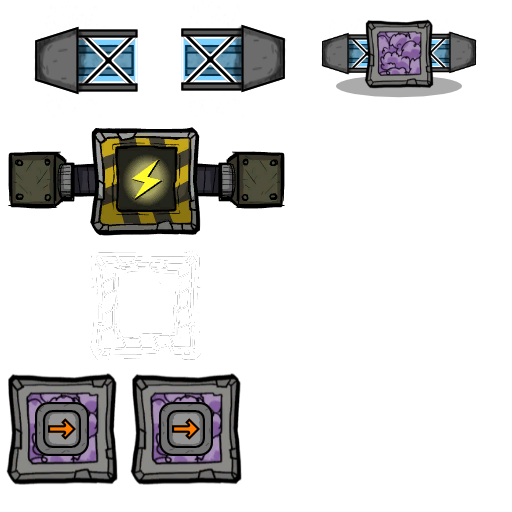
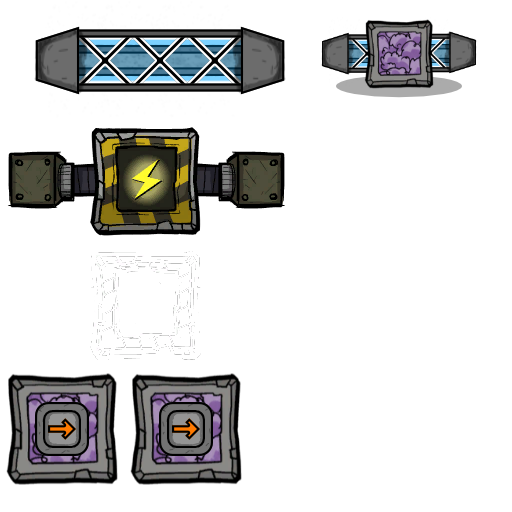
normal hp rail

Changed region(s): [[0.125, 0.0312, 0.5625, 0.1875], [0.0625, 0.0625, 0.0938, 0.1562]]

diff --git a/RonivansLegacy_ChemicalProcessing/STRINGS.cs b/RonivansLegacy_ChemicalProcessing/STRINGS.cs
@@ -1343,20 +1343,20 @@ namespace RonivansLegacy_ChemicalProcessing
 
 				public class HPA_SOLIDRAIL
 				{
-					public static LocString NAME = FormatAsLink("Heavy Duty Rail", nameof(HPA_SOLIDRAIL));
+					public static LocString NAME = FormatAsLink("Heavy-Duty Rail", nameof(HPA_SOLIDRAIL));
 					public static LocString DESC = "Rails move materials where they'll be needed most, saving Duplicants the walk.";
 					public static LocString EFFECT = string.Concat(
 						[
 							"Transports large quantities of ",FormatAsLink("Solid Materials", "ELEMENTS_SOLID")," on a track between ",
-							FormatAsLink("Heavy Duty Loaders", "HPA_INBOX"),
+							FormatAsLink("Heavy-Duty Loaders", "HPA_INBOX"),
 							" and ",
-							FormatAsLink("Heavy Duty Receptacles", "HPA_OUTBOX"),
+							FormatAsLink("Heavy-Duty Receptacles", "HPA_OUTBOX"),
 							".\n\nCan not be run through wall and floor tiles."
 						]);
 				}
 				public class HPA_SOLIDRAIL_INSULATED
 				{
-					public static LocString NAME = FormatAsLink("Insulated Heavy Duty Rail", nameof(HPA_SOLIDRAIL_INSULATED));
+					public static LocString NAME = FormatAsLink("Insulated Heavy-Duty Rail", nameof(HPA_SOLIDRAIL_INSULATED));
 					public static LocString DESC = "Rails move materials where they'll be needed most, saving Duplicants the walk.";
 					public static LocString EFFECT = string.Concat(
 						[
@@ -1366,30 +1366,36 @@ namespace RonivansLegacy_ChemicalProcessing
 				}
 				public class HPA_SOLIDRAILBRIDGETILE
 				{
-					public static LocString NAME = FormatAsLink("Heavy Duty Joint Plate", nameof(HPA_SOLIDRAILBRIDGETILE));
-					public static LocString DESC = "Joint plates can run Heavy Duty rails through walls without leaking gas or liquid.";
+					public static LocString NAME = FormatAsLink("Heavy-Duty Joint Plate", nameof(HPA_SOLIDRAILBRIDGETILE));
+					public static LocString DESC = "Joint plates can run Heavy-Duty rails through walls without leaking gas or liquid.";
 					public static LocString EFFECT = "Allows " + HPA_SOLIDRAIL.NAME+" and "+ HPA_SOLIDRAIL_INSULATED.NAME + " to be run through wall and floor tile.\n\nFunctions as regular insulated tile.";
+				}
+				public class HPA_SOLIDRAILBRIDGE
+				{
+					public static LocString NAME = FormatAsLink("Heavy-Duty Bridge", nameof(HPA_SOLIDRAILBRIDGE));
+					public static LocString DESC = "Separating rail systems helps ensure materials go to the intended destinations.";
+					public static LocString EFFECT = "Allows " + HPA_SOLIDRAIL.NAME + " and " + HPA_SOLIDRAIL_INSULATED.NAME + " to run one section over another without joining them.\n\nCanot be run through wall and floor tile.";
 				}
 				public class HPA_INBOX
 				{
-					public static LocString NAME = FormatAsLink("Heavy Duty Loader", nameof(HPA_INBOX));
+					public static LocString NAME = FormatAsLink("Heavy-Duty Loader", nameof(HPA_INBOX));
 					public static LocString DESC = "";
 					public static LocString EFFECT = "";
 				}
 				public class HPA_OUTBOX
 				{
-					public static LocString NAME = FormatAsLink("Heavy Duty Receptacle", nameof(HPA_OUTBOX));
+					public static LocString NAME = FormatAsLink("Heavy-Duty Receptacle", nameof(HPA_OUTBOX));
 					public static LocString DESC = "";
 					public static LocString EFFECT = "";
 				}
 				public class HPA_SOLIDRAILVALVE
 				{
-					public static LocString NAME = FormatAsLink("Heavy Duty Reduction Valve", nameof(HPA_SOLIDRAILVALVE));
-					public static LocString DESC = "A mechanical valve capable of reducing the flow of mass from a heavy duty rail to to a conveyor rail, to avoid dropping items.";
+					public static LocString NAME = FormatAsLink("Heavy-Duty Reduction Valve", nameof(HPA_SOLIDRAILVALVE));
+					public static LocString DESC = "A mechanical valve capable of reducing the flow of mass from a Heavy-Duty rail to to a conveyor rail, to avoid dropping items.";
 					public static LocString EFFECT = "Allows " +
 					FormatAsLink("Solid Materials", "ELEMENTS_SOLID") +
 					" to be transfered from " +
-					FormatAsLink("Heavy Duty Rails", "HPA_SOLIDRAIL") +
+					FormatAsLink("Heavy-Duty Rails", "HPA_SOLIDRAIL") +
 					" to normal" +
 					FormatAsLink("Conveyor Rails", "SOLIDCONDUIT") +
 					".";
@@ -1543,13 +1549,13 @@ namespace RonivansLegacy_ChemicalProcessing
 				}
 				public class HPA_NEEDSOLIDIN
 				{
-					public static LocString NAME ="No Heavy Duty Solid Intake";
-					public static LocString TOOLTIP =("This building's " + PRE_KEYWORD + "Heavy Duty Solid Intake" + PST_KEYWORD + " does not have a " + (string)BUILDINGS.PREFABS.HPA_SOLIDRAIL.NAME + " connected");
+					public static LocString NAME ="No Heavy-Duty Solid Intake";
+					public static LocString TOOLTIP =("This building's " + PRE_KEYWORD + "Heavy-Duty Solid Intake" + PST_KEYWORD + " does not have a " + (string)BUILDINGS.PREFABS.HPA_SOLIDRAIL.NAME + " connected");
 				}
 				public class HPA_NEEDLSOLIDOUT
 				{
-					public static LocString NAME ="No Heavy Duty Solid Output";
-					public static LocString TOOLTIP =("This building's " + PRE_KEYWORD + "Heavy Duty Solid Output" + PST_KEYWORD + " does not have a " + (string)BUILDINGS.PREFABS.HPA_SOLIDRAIL.NAME + " connected");
+					public static LocString NAME ="No Heavy-Duty Solid Output";
+					public static LocString TOOLTIP =("This building's " + PRE_KEYWORD + "Heavy-Duty Solid Output" + PST_KEYWORD + " does not have a " + (string)BUILDINGS.PREFABS.HPA_SOLIDRAIL.NAME + " connected");
 				}
 				public class LOGISTIC_NEEDSOLIDIN
 				{
@@ -1957,6 +1963,10 @@ namespace RonivansLegacy_ChemicalProcessing
 		}
 		public class UI
 		{
+			public class TOOLTIPS
+			{
+				public static LocString HELP_BUILDLOCATION_HPA_RAIL = "Obstructed by Heavy-Duty Rail";
+			}
 			public class KLEI_INVENTORY_SCREEN
 			{
 				public class SUBCATEGORIES
@@ -2206,13 +2216,13 @@ namespace RonivansLegacy_ChemicalProcessing
 			}
 			public class HP_SOLID_CAPACITY
 			{
-				public static LocString NAME = "Heavy Duty Rail Capacity";
-				public static LocString TOOLTIP = "Heavy Duty Rails serve as an late game upgrade to conveyor rails, having a much higher throughput at the cost of more complex build requirements.";
+				public static LocString NAME = "Heavy-Duty Rail Capacity";
+				public static LocString TOOLTIP = "Heavy-Duty Rails serve as an late game upgrade to conveyor rails, having a much higher throughput at the cost of more complex build requirements.";
 			}
 			public class HP_SOLID_ARMRANGE
 			{
-				public static LocString NAME = "Heavy Duty Auto-Sweeper Range";
-				public static LocString TOOLTIP = "The Heavy Duty Auto-Sweeper serves as a late game version of the autosweeper, having higher range and throughput at the cost of more complex build requirements";
+				public static LocString NAME = "Heavy-Duty Auto-Sweeper Range";
+				public static LocString TOOLTIP = "The Heavy-Duty Auto-Sweeper serves as a late game version of the autosweeper, having higher range and throughput at the cost of more complex build requirements";
 			}
 		}
 	}

diff --git a/RonivansLegacy_ChemicalProcessing/Patches/HPA/BuildingDef_Patches.cs b/RonivansLegacy_ChemicalProcessing/Patches/HPA/BuildingDef_Patches.cs
@@ -1,0 +1,94 @@
+using HarmonyLib;
+using System;
+using System.Collections.Generic;
+using System.Linq;
+using System.Text;
+using System.Threading.Tasks;
+using UnityEngine;
+using UtilLibs;
+using static Grid.Restriction;
+using static Operational;
+
+namespace RonivansLegacy_ChemicalProcessing.Patches.HPA
+{
+	class BuildingDef_Patches
+	{
+
+		[HarmonyPatch(typeof(BuildingDef), nameof(BuildingDef.IsValidTileLocation))]
+		public class BuildingDef_IsValidTileLocation_Patch
+		{
+			public static void Postfix(BuildingDef __instance, GameObject source_go, int cell, bool replacement_tile, ref string fail_reason, ref bool __result)
+			{
+				if (!__result)
+					return;
+				var solidBridge = Grid.Objects[cell, (int)ObjectLayer.SolidConduitConnection];
+				if (solidBridge != null && solidBridge != source_go && solidBridge.TryGetComponent<Building>(out var building) && building.Def.BuildLocationRule == BuildLocationRule.NotInTiles)
+				{
+					fail_reason = STRINGS.UI.TOOLTIPS.HELP_BUILDLOCATION_HPA_RAIL;
+					__result = false;
+				}
+				var solidRail = Grid.Objects[cell, (int)ObjectLayer.SolidConduit];
+				if (solidRail != null && solidRail != source_go && solidRail.TryGetComponent<Building>(out var building2) && building2.Def.BuildLocationRule == BuildLocationRule.NotInTiles)
+				{
+					fail_reason = STRINGS.UI.TOOLTIPS.HELP_BUILDLOCATION_HPA_RAIL;
+					__result = false;
+				}
+			}
+		}
+
+		[HarmonyPatch(typeof(BuildingDef), nameof(BuildingDef.IsValidBuildLocation),
+			[typeof(GameObject), typeof(int), typeof(Orientation), typeof(bool), typeof(string)], [ArgumentType.Normal, ArgumentType.Normal, ArgumentType.Normal, ArgumentType.Normal, ArgumentType.Out])]
+		public class BuildingDef_IsValidBuildLocation_Patch
+		{
+			public static void Postfix(BuildingDef __instance, int cell, GameObject source_go, Orientation orientation, ref string fail_reason, ref bool __result)
+			{
+				if (!__result)
+					return;
+				SgtLogger.l(__instance.ObjectLayer + " - " + __instance.BuildLocationRule + " - " + __instance.UtilityInputOffset + " - " + __instance.UtilityOutputOffset);
+				__result = IsValidHPABridgeLocation(__instance, cell, source_go, orientation, ref fail_reason);
+
+
+			}
+		}
+		static bool IsValidHPABridgeLocation(BuildingDef __instance, int cell, GameObject source_go, Orientation orientation, ref string fail_reason)
+		{
+			if (__instance.BuildLocationRule == BuildLocationRule.NotInTiles && __instance.ObjectLayer == ObjectLayer.SolidConduitConnection)
+			{
+				SgtLogger.l("Checking Bridge Validity for cell: " + cell + " with orientation: " + orientation);
+
+				CellOffset outputOffset = Rotatable.GetRotatedCellOffset(__instance.UtilityOutputOffset, orientation);
+				int utility_output_cell = Grid.OffsetCell(cell, outputOffset);
+
+				CellOffset inputOffset = Rotatable.GetRotatedCellOffset(__instance.UtilityInputOffset, orientation);
+				int utility_input_cell = Grid.OffsetCell(cell, inputOffset);
+
+				GameObject inputCellTile = Grid.Objects[utility_input_cell, (int)ObjectLayer.FoundationTile];
+				GameObject outputCellTile = Grid.Objects[utility_output_cell, (int)ObjectLayer.FoundationTile];
+
+				SgtLogger.l("Input Cell Tile: " + (inputCellTile != null) + " at cell: " + utility_input_cell);
+				SgtLogger.l("Output Cell Tile: " + (outputCellTile != null) + " at cell: " + utility_output_cell);
+
+				if (inputCellTile != null || Grid.HasDoor[utility_input_cell]
+					|| outputCellTile != null || Grid.HasDoor[utility_output_cell])
+				{
+					fail_reason = global::STRINGS.UI.TOOLTIPS.HELP_BUILDLOCATION_NOT_IN_TILES;
+					return false;
+				}
+			}
+			return true;
+		}
+
+		[HarmonyPatch(typeof(BuildingDef), nameof(BuildingDef.IsValidPlaceLocation),
+			[typeof(GameObject), typeof(int), typeof(Orientation), typeof(bool), typeof(string), typeof(bool)], [ArgumentType.Normal, ArgumentType.Normal, ArgumentType.Normal, ArgumentType.Normal, ArgumentType.Out, ArgumentType.Normal])]
+		public class BuildingDef_IsValidPlaceLocation_Patch
+		{
+			public static void Postfix(BuildingDef __instance, GameObject source_go, int cell, Orientation orientation, bool replace_tile, ref string fail_reason, bool restrictToActiveWorld, ref bool __result)
+			{
+				if (!__result)
+					return;
+				SgtLogger.l(__instance.ObjectLayer + " - " + __instance.BuildLocationRule + " - " + __instance.UtilityInputOffset + " - " + __instance.UtilityOutputOffset);
+				__result = IsValidHPABridgeLocation(__instance, cell, source_go, orientation, ref fail_reason);
+			}
+		}
+	}
+}

diff --git a/RonivansLegacy_ChemicalProcessing/Content/Defs/Buildings/HighPressureApplications/HighCapacityLogisticRails/HPABridgeConfig.cs b/RonivansLegacy_ChemicalProcessing/Content/Defs/Buildings/HighPressureApplications/HighCapacityLogisticRails/HPABridgeConfig.cs
@@ -10,9 +10,9 @@ using UtilLibs;
 
 namespace RonivansLegacy_ChemicalProcessing.Content.Defs.Buildings.HighPressureApplications.HighCapacityLogisticRails
 {
-    class HPABridgeTileConfig : IBuildingConfig
+    class HPABridgeConfig : IBuildingConfig
 	{
-		public static string ID = "HPA_SolidRailBridgeTile";
+		public static string ID = "HPA_SolidRailBridge";
 		public override void ConfigureBuildingTemplate(GameObject go, Tag prefab_tag)
 		{
 			BuildingConfigManager.Instance.IgnoreDefaultKComponent(typeof(RequiresFoundation), prefab_tag);
@@ -22,33 +22,24 @@ namespace RonivansLegacy_ChemicalProcessing.Content.Defs.Buildings.HighPressureA
 			cap.CachedConduitCapacity = HighPressureConduitRegistration.SolidCap_HP; 
 			
 			GeneratedBuildings.MakeBuildingAlwaysOperational(go);
-			SimCellOccupier simCellOccupier = go.AddOrGet<SimCellOccupier>();
-			simCellOccupier.doReplaceElement = true;
-			simCellOccupier.movementSpeedMultiplier = DUPLICANTSTATS.MOVEMENT_MODIFIERS.PENALTY_3;
-			simCellOccupier.notifyOnMelt = true;
-			go.AddOrGet<BuildingHP>().destroyOnDamaged = true;
-			go.AddOrGet<TileTemperature>();
 		}
 
 		public override BuildingDef CreateBuildingDef()
 		{
 			EffectorValues nONE = NOISE_POLLUTION.NONE;
 
-			string[] mats = [GameTags.BuildableRaw.ToString(),GameTags.Steel.ToString(), MATERIALS.TRANSPARENT];
-			float[] costs = [400, 100, 50];
+			string[] mats = [GameTags.Steel.ToString(), MATERIALS.TRANSPARENT];
+			float[] costs = [100, 50];
 
-			BuildingDef def1 = BuildingTemplates.CreateBuildingDef(ID, 1, 1, "hpa_rail_tile_bridge_kanim", 100, 30f, costs, mats, 1600f, BuildLocationRule.NotInTiles, BUILDINGS.DECOR.NONE, nONE, 0.2f);
-			BuildingTemplates.CreateFoundationTileDef(def1);
-			def1.Overheatable = false;
-			def1.UseStructureTemperature = false;
-			def1.Floodable = false;
-			def1.Entombable = false;
-			def1.ThermalConductivity = 0.01f;
-			def1.PermittedRotations = PermittedRotations.R360;
+			BuildingDef def1 = BuildingTemplates.CreateBuildingDef(ID, 3, 1, "hpa_rail_bridge_kanim", 100, 30f, costs, mats, 1600f, BuildLocationRule.NotInTiles, BUILDINGS.DECOR.NONE, nONE, 0.2f);
+
 			def1.ObjectLayer = ObjectLayer.SolidConduitConnection;
-
+			def1.SceneLayer = Grid.SceneLayer.SolidConduitBridges;
 			def1.InputConduitType = ConduitType.Solid;
 			def1.OutputConduitType = ConduitType.Solid;
+			def1.Floodable = false;
+			def1.Entombable = false;
+			def1.Overheatable = false;
 			def1.ViewMode = OverlayModes.SolidConveyor.ID;
 			def1.AudioCategory = "Metal";
 			def1.AudioSize = "small";
@@ -56,10 +47,8 @@ namespace RonivansLegacy_ChemicalProcessing.Content.Defs.Buildings.HighPressureA
 			def1.PermittedRotations = PermittedRotations.R360;
 			def1.UtilityInputOffset = new CellOffset(-1, 0);
 			def1.UtilityOutputOffset = new CellOffset(1, 0);
-			def1.SceneLayer = Grid.SceneLayer.SolidConduitBridges;
-			def1.ForegroundLayer = Grid.SceneLayer.TileMain;
 			GeneratedBuildings.RegisterWithOverlay(OverlayScreen.SolidConveyorIDs, ID);
-			SoundUtils.CopySoundsToAnim("logistic_bridge_kanim", "utilities_conveyorbridge_kanim");
+			SoundUtils.CopySoundsToAnim("hpa_rail_bridge_kanim", "utilities_conveyorbridge_kanim");
 			return def1;
 		}
 

diff --git a/RonivansLegacy_ChemicalProcessing/Content/ModDb/BuildingDatabase.cs b/RonivansLegacy_ChemicalProcessing/Content/ModDb/BuildingDatabase.cs
@@ -637,6 +637,10 @@ namespace RonivansLegacy_ChemicalProcessing.Content.ModDb
 				.AddToCategory(PlanMenuCategory.Shipping, SolidConduitBridgeConfig.ID)
 				.AddToTech(Technology.SolidMaterial.SolidManagement)
 				.AddModFrom(SourceModInfo.HighPressureApplications);
+			BuildingManager.CreateEntry<HPABridgeConfig>()
+				.AddToCategory(PlanMenuCategory.Shipping, SolidConduitBridgeConfig.ID)
+				.AddToTech(Technology.SolidMaterial.SolidManagement)
+				.AddModFrom(SourceModInfo.HighPressureApplications);
 		}
 
 		private static void RegisterBuildings_DupesRefrigeration()

diff --git a/RonivansLegacy_ChemicalProcessing/Content/Defs/Buildings/HighPressureApplications/HighCapacityLogisticRails/HPARailConfig.cs b/RonivansLegacy_ChemicalProcessing/Content/Defs/Buildings/HighPressureApplications/HighCapacityLogisticRails/HPARailConfig.cs
@@ -65,6 +65,7 @@ namespace RonivansLegacy_ChemicalProcessing.Content.Defs.Buildings.HighPressureA
 			KAnimGraphTileVisualizer local1 = go.AddComponent<KAnimGraphTileVisualizer>();
 			local1.connectionSource = KAnimGraphTileVisualizer.ConnectionSource.Solid;
 			local1.isPhysicalBuilding = false;
+			go.GetComponent<Constructable>().requiredSkillPerk = Db.Get().SkillPerks.ConveyorBuild.Id;
 		}
 	}
 }
